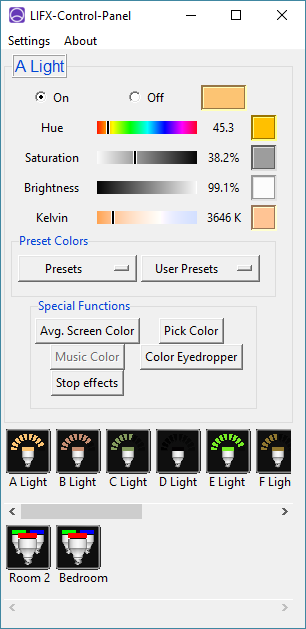
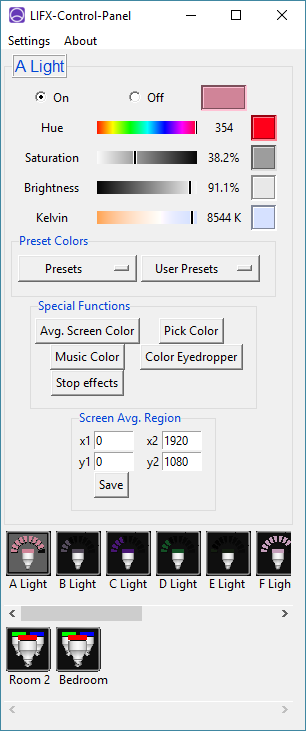
Updated screenshot

diff --git a/_constants.py b/_constants.py
@@ -1,4 +1,4 @@
-VERSION = "1.6.1"
-BUILD_DATE = "2019-03-01T14:35:27.888124"
+VERSION = "1.6.2"
+BUILD_DATE = "2019-03-09T00:22:15.433434"
 AUTHOR = "Sawyer McLane"
 DEBUGGING = False

diff --git a/README.md b/README.md
@@ -11,7 +11,7 @@ such as monitoring and changing bulb color, with more advanced ones, like:
  * Keybindings
 
 <p align="center">
-  <img src="screenshot.png" alt="Screenshot" width="306" height=629>
+  <img src="screenshot.png" alt="Screenshot" width="306" height=731>
 </p>
 
 Color Averaging Demo (Click Me):
